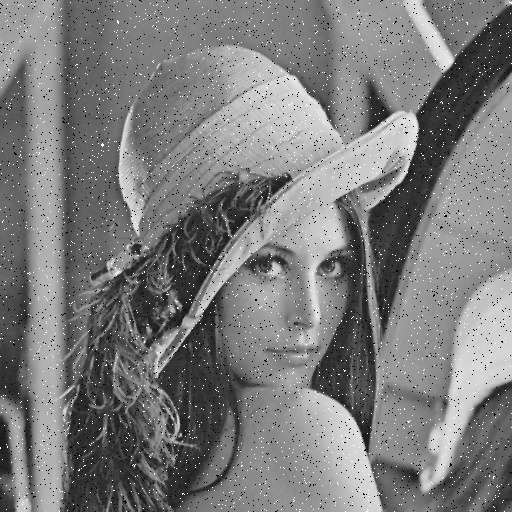
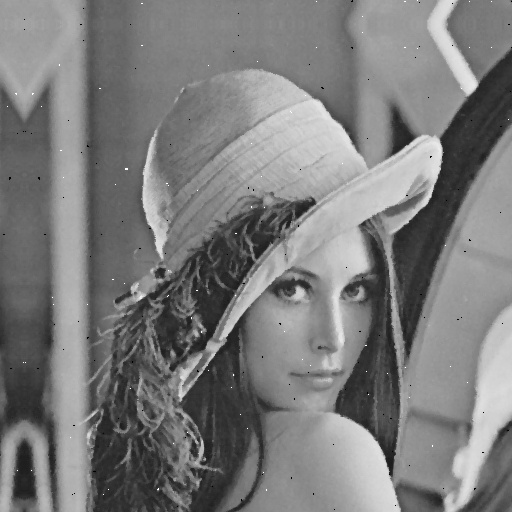
feat(hw4): update adaptive median filter implementation and add example usage

diff --git a/hw4/adaptive_median_filter.py b/hw4/adaptive_median_filter.py
@@ -1,101 +1,91 @@
 '''
-python adaptive_median_filter.py /Users/young/Documents/nchu-2025-spring/DIP/hw4/output/noisy_01.jpg /Users/young/Documents/nchu-2025-spring/DIP/hw4/output/adaptive_denoisy_01.jpg -m 3
+python adaptive_median_filter.py /Users/young/Documents/nchu-2025-spring/DIP/hw4/output/noisy_01.jpg /Users/young/Documents/nchu-2025-spring/DIP/hw4/output/adaptive_denoisy_01.jpg -m 31
+python adaptive_median_filter.py /Users/young/Documents/nchu-2025-spring/DIP/hw4/output/noisy_25.jpg /Users/young/Documents/nchu-2025-spring/DIP/hw4/output/adaptive_denoisy_25.jpg -m 15
 '''
+
+#!/usr/bin/env python3
+# -*- coding: utf-8 -*-
+
 import cv2
 import numpy as np
+import argparse
+import sys
 
-def adaptive_median_filter(img: np.ndarray, max_ksize: int = 7) -> np.ndarray:
+def adaptive_median_filter(img: np.ndarray, s_max: int) -> np.ndarray:
     """
-    自適應中值濾波 (Adaptive Median Filter) 核心，僅支援單通道灰階。
-
-    參數：
-    - img: 灰階影像 (H, W)，dtype 任意整數型別
-    - max_ksize: 最大視窗大小 (必須為奇數，>=3)
-
-    回傳：
-    - filtered: 濾波後灰階影像，同 dtype
+    自適應中值濾波器 (輸入單通道灰階影像)
+    img    : np.ndarray, 灰階影像
+    s_max  : int, 最大視窗邊長 (必須為奇數)
+    回傳   : np.ndarray, 除躁後的灰階影像
     """
-    assert img.ndim == 2, "adaptive_median_filter 只支援單通道"
-    assert max_ksize % 2 == 1 and max_ksize >= 3, "max_ksize 必須為大於等於 3 的奇數"
+    # Padding：以最大視窗半徑作零填充
+    pad = s_max // 2
+    padded = np.pad(img, pad_width=pad, mode='reflect')
+    output = img.copy()
+    rows, cols = img.shape
 
-    H, W = img.shape
-    Smax = max_ksize
-    filtered = np.zeros_like(img)
-    pad = Smax // 2
-    padded = np.pad(img, pad, mode='edge')
-
-    for y in range(H):
-        for x in range(W):
-            S = 3
-            z0 = int(padded[y + pad, x + pad])
+    for i in range(rows):
+        for j in range(cols):
+            window_size = 7  # 從 3×3 開始
             while True:
-                off = S // 2
-                window = padded[
-                    y + pad - off : y + pad + off + 1,
-                    x + pad - off : x + pad + off + 1
-                ].ravel()
-                Zmin = int(window.min())
-                Zmax = int(window.max())
-                Zmed = int(np.median(window))
-                A1 = Zmed - Zmin
-                A2 = Zmed - Zmax
-                # Stage A
-                if A1 > 0 and A2 < 0:
-                    # Stage B
-                    B1 = z0 - Zmin
-                    B2 = z0 - Zmax
-                    filtered[y, x] = z0 if (B1 > 0 and B2 < 0) else Zmed
+                half = window_size // 2
+                # 取出當前視窗
+                local = padded[i : i + window_size, j : j + window_size]
+                z_min = local.min()
+                z_med = np.median(local)
+                z_max = local.max()
+                z_xy  = padded[i + half, j + half]
+
+                # Step A: 檢查中值是否在最小值與最大值之間
+                if z_min < z_med < z_max:
+                    # Step B: 檢查當前像素是否等於中值
+                    output[i, j] = z_med if z_xy != z_med else z_xy
                     break
-                S += 2
-                if S > Smax:
-                    filtered[y, x] = Zmed
-                    break
-    return filtered
+                else:
+                    window_size += 2  # 每次擴增視窗邊長 2
+                    if window_size > s_max:
+                        # 超過最大視窗時，直接以中值替代
+                        output[i, j] = z_med
+                        break
 
+    return output
 
-def adaptive_median_filter_color(input_path: str, output_path: str, max_ksize: int = 7) -> None:
-    """
-    讀取彩色影像，拆通道獨立做自適應中值濾波，重建彩色輸出。
+def parse_args():
+    parser = argparse.ArgumentParser(
+        description="Adaptive Median Filter (灰階版)\n"
+                    "範例：python adaptive_median_filter.py input.jpg output.jpg -m 31"
+    )
+    parser.add_argument("input_path", help="輸入影像路徑 (灰階)")
+    parser.add_argument("output_path", help="輸出影像路徑")
+    parser.add_argument(
+        "-m", "--max_window", type=int, default=31,
+        help="最大視窗邊長 (預設 31，必須為奇數)"
+    )
+    return parser.parse_args()
 
-    參數：
-    - input_path: 輸入 BGR 影像路徑
-    - output_path: 濾波後 BGR 影像儲存路徑
-    - max_ksize: 最大視窗大小 (奇數，>=3)
-    """
-    # 讀彩色，強制 BGR
-    img_bgr = cv2.imread(input_path, cv2.IMREAD_COLOR)
-    if img_bgr is None:
-        raise FileNotFoundError(f"找不到影像：{input_path}")
+def main():
+    args = parse_args()
 
-    # 拆成三個通道
-    b, g, r = cv2.split(img_bgr)
+    # 以灰階讀取
+    img = cv2.imread(args.input_path, cv2.IMREAD_GRAYSCALE)
+    if img is None:
+        print(f"無法讀取影像：{args.input_path}", file=sys.stderr)
+        sys.exit(1)
 
-    # 對每個通道做自適應中值濾波
-    b_d = adaptive_median_filter(b, max_ksize).astype(b.dtype)
-    g_d = adaptive_median_filter(g, max_ksize).astype(g.dtype)
-    r_d = adaptive_median_filter(r, max_ksize).astype(r.dtype)
+    # 檢查 max_window 是否為奇數
+    if args.max_window % 2 == 0:
+        print("錯誤：-m/--max_window 必須為奇數", file=sys.stderr)
+        sys.exit(1)
 
-    # 合併回 BGR
-    denoised = cv2.merge([b_d, g_d, r_d])
+    denoised = adaptive_median_filter(img, args.max_window)
 
-    # 存檔
-    cv2.imwrite(output_path, denoised)
-    print(f"已將拆通道自適應中值濾波後彩色影像儲存至：{output_path}")
+    # 儲存結果（灰階）
+    success = cv2.imwrite(args.output_path, denoised)
+    if not success:
+        print(f"儲存影像失敗：{args.output_path}", file=sys.stderr)
+        sys.exit(1)
 
+    print(f"除躁完成，已儲存至：{args.output_path}")
 
 if __name__ == "__main__":
-    import argparse
-
-    parser = argparse.ArgumentParser(description="Adaptive Median Filter for Color Images (Channel-wise)")
-    parser.add_argument("input", help="輸入影像檔路徑 (BGR)")
-    parser.add_argument("output", help="輸出影像檔路徑")
-    parser.add_argument(
-        "-m", "--max", type=int, default=7,
-        help="最大視窗大小 (奇數，>=3)"
-    )
-    args = parser.parse_args()
-
-    if args.max < 3 or args.max % 2 == 0:
-        parser.error("max 必須為大於等於 3 的奇數")
-
-    adaptive_median_filter_color(args.input, args.output, args.max)
+    main()

diff --git a/hw4/median_filter.py b/hw4/median_filter.py
@@ -1,5 +1,7 @@
 '''
 python median_filter.py /Users/young/Documents/nchu-2025-spring/DIP/hw4/output/noisy_01.jpg /Users/young/Documents/nchu-2025-spring/DIP/hw4/output/denoised_01.jpg -k 3
+python median_filter.py /Users/young/Documents/nchu-2025-spring/DIP/hw4/output/noisy_25.jpg /Users/young/Documents/nchu-2025-spring/DIP/hw4/output/denoised_25.jpg -k 7
+
 '''
 import cv2
 import numpy as np
